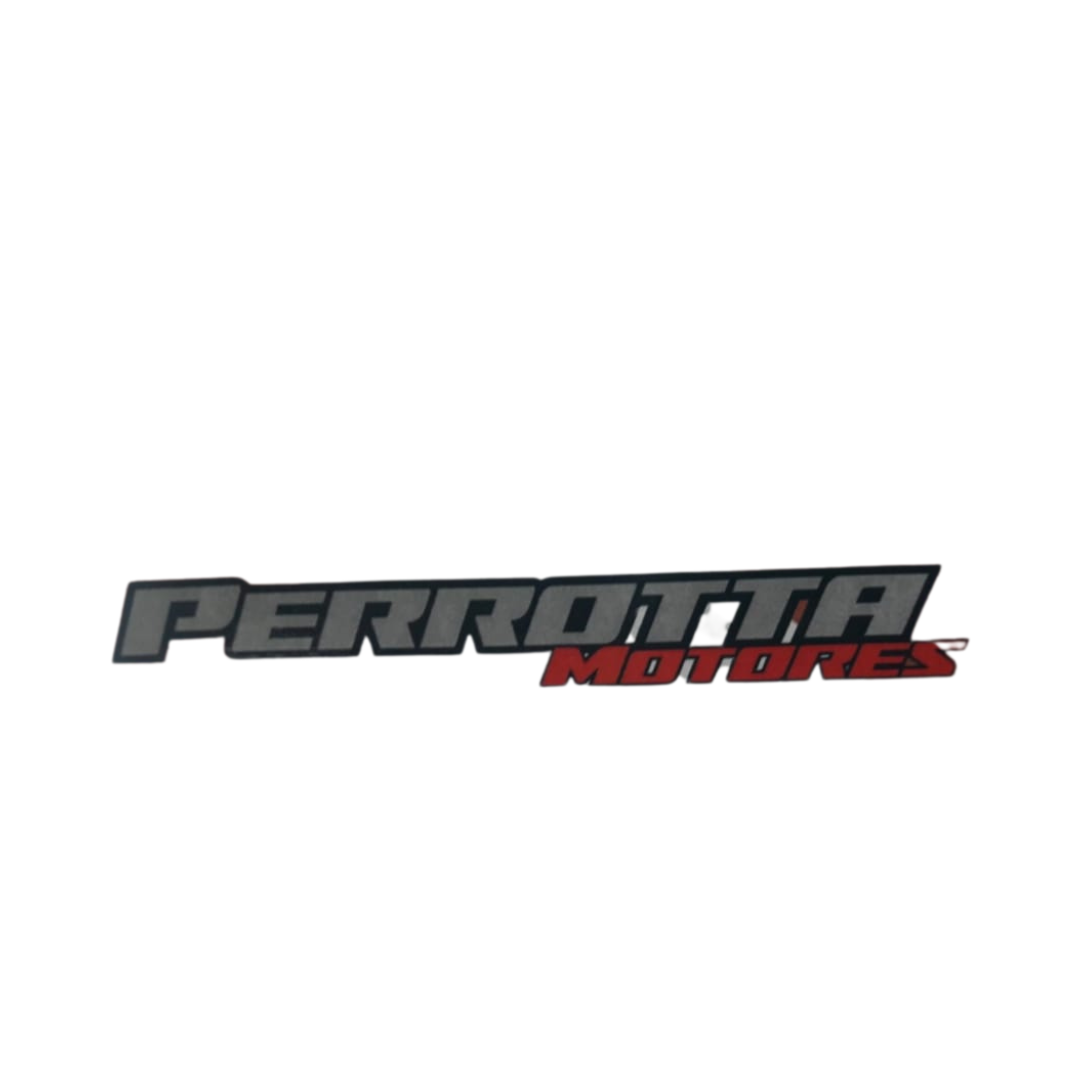
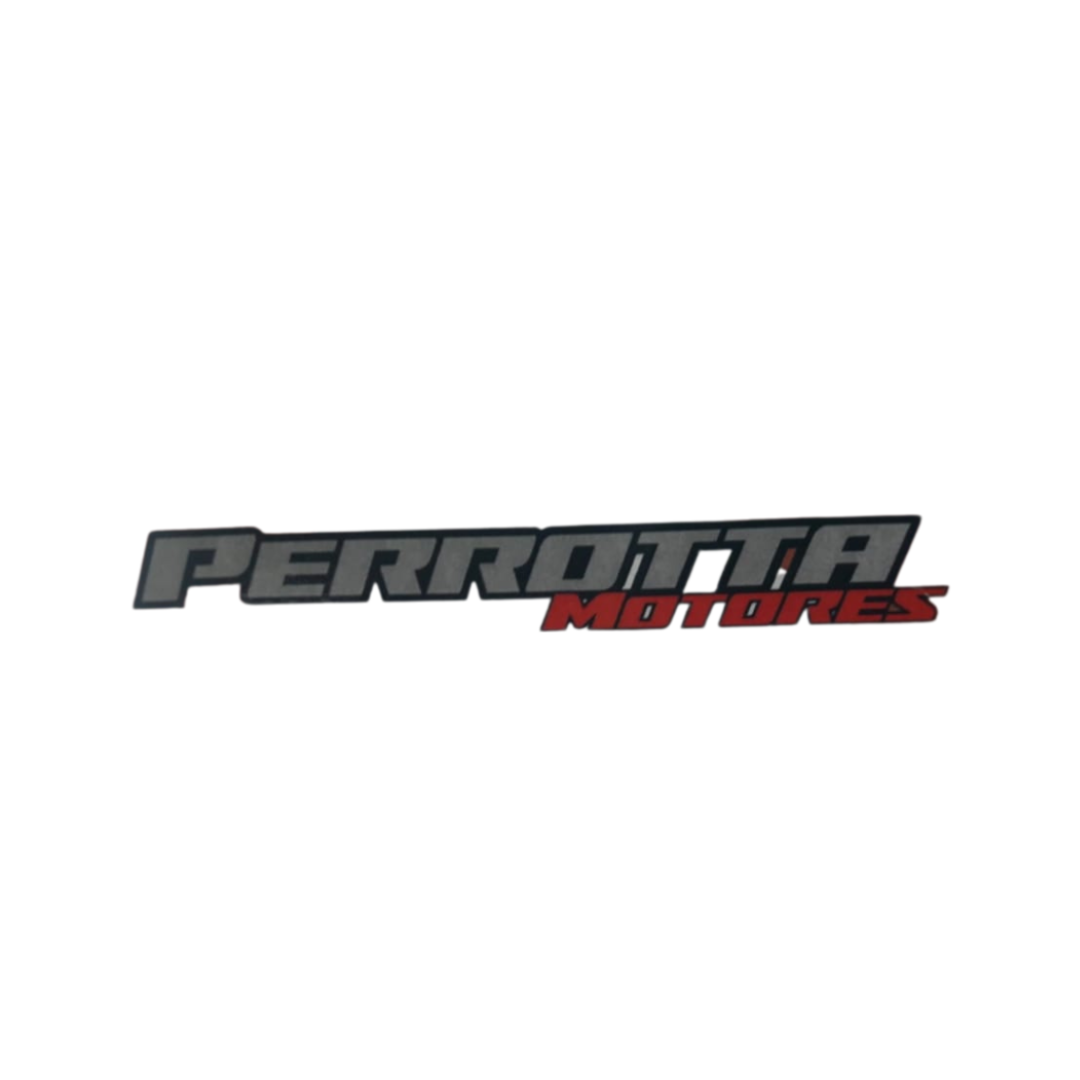
update sponsors

Changed region(s): [[0.0917, 0.4583, 0.9167, 0.6417]]

diff --git a/src/components/ViewImages.jsx b/src/components/ViewImages.jsx
@@ -13,7 +13,7 @@ export const ViewImages = ({images, indexImage, setOpen}) =>{
     
     return (
         <div className="bg-black/90 fixed top-0 left-0 bottom-0 right-0 flex justify-center items-center z-99 w-full h-auto">
-                    <div className="w-[320px] h-[800px] lg:w-[500px] lg:h-[800px] overflow-hidden relative shadow-[0px_0px_15px_black/50] rounded-xl "
+                    <div className="w-[320px] h-[900px] lg:w-[500px] lg:h-[800px] overflow-hidden relative shadow-[0px_0px_15px_black/50] rounded-xl "
                     >
                         <div className="flex transition-transform ease-out duration-500 h-full relative"
                         style={{transform: `translateX(-${current*100}%)`}}>

diff --git a/src/components/Sponsors.jsx b/src/components/Sponsors.jsx
@@ -8,13 +8,13 @@ export const Sponsors = () =>{
                 {sponsors.map(item=>
                     <a href={item.link}>
                         <img src={item.url} alt={item.name} 
-                        className="w-25"/>
+                        className="w-30"/>
                     </a>
                 )}
                 {sponsors.map(item=>
                     <a href={item.link}>
                         <img src={item.url} alt={item.name} 
-                        className="w-25"/>
+                        className="w-30"/>
                     </a>
                 )}
             </div>

diff --git a/src/config/galeria.js b/src/config/galeria.js
@@ -232,7 +232,7 @@ export const sponsors = [
         {
         'name':'16.png',
         'url':'sponsors/16.png',
-        'link':'https://www.instagram.com/fraganciasemily/'
+        'link':'http://wa.me/+5492224546567'
 
     },
         {
